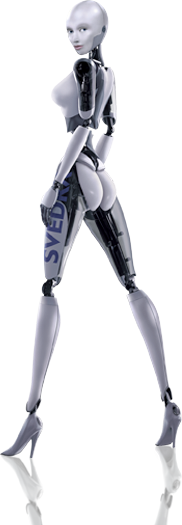
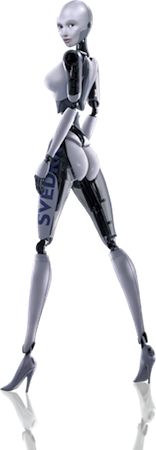
redemption resize

diff --git a/app/style.css b/app/style.css
@@ -66,7 +66,7 @@ h4.notBot { background:url(images/itsNotBot-butYouAre.jpg) no-repeat; display:bl
 #mainContent img { display:block; margin:0 auto; padding-right: 20px;}
 #mainContent .left img { margin:35px 20px 0 28px; }
 #mainContent .left img.small { margin:5px 20px 0 28px; }
-.bot { margin:0; position:absolute; top:302px; right:0; } /* Margin and top changed */
+.bot { margin:0; position:absolute; top:320px; right:0; } /* Margin and top changed */
 #mainContent a.playBtn { background:url(images/play-btn.png) no-repeat; bottom:505px; height:100px; position:absolute; right:206px; text-indent:-9999px; width:230px; } /* bottom and right changed */
 #container2 #mainContent a.playBtn {background:url(images/play-btn2.png) no-repeat; bottom:550px; height:100px; position:absolute; right:100px; text-indent:-9999px; width:230px; top: 340px} /* Added */
 #mainContent a.invite { background:url(images/invite-friends.png) no-repeat; display:block; height:28px; margin:35px auto 0; text-indent:-9999px; width:254px; }
@@ -104,7 +104,7 @@ h4.notBot { background:url(images/itsNotBot-butYouAre.jpg) no-repeat; display:bl
 /* =================================
 				FORM
 ==================================== */
-#form { margin:0 0 0 30px; padding:20px 0 0 0; width:490px; height: 389px } /* Height added */
+#form { margin:0 0 0 30px; /* padding:20px 0 0 0 */; width:490px; height: 304px; padding-top: 26px; } /* Height added */
 label { font:normal 12px Tahoma; }
 #form input, select { background:#000; border:1px solid #fff; color:#fff; display:block; font:normal 12px Tahoma; margin:0 10px 0 0; padding:5px 0 5px 3px; }
 #form .name { width:220px; }
@@ -114,11 +114,11 @@ label { font:normal 12px Tahoma; }
 #form .zip { width:104px; }
 #form div { float:left; margin:0 0 15px 0; }
 #submit { clear:both; }
-#submit input { background: url("images/SubmitBtn.png") no-repeat scroll 0 0 transparent; border:none; font:bold 16px Futura; margin:10px 0 0 0; padding:0; text-transform:uppercase; cursor: pointer; text-indent:-9999px;width:119px;height:37px;}
+#submit input { background: url("images/SubmitBtn.png") no-repeat scroll 0 0 transparent; border:none; font:bold 16px Futura; margin:10px 0 0 0; padding:0; text-transform:uppercase; cursor: pointer; text-indent:-9999px;width:98px;height:30px;}
 /* =================================
 				FOOTER
 ==================================== */
-#footer p { font:normal 10px Helvetica; margin:53px auto 0 auto; text-align:center; }
+#footer p { font:normal 10px Helvetica; margin:90px auto 0 auto; text-align:center; }
 #btm { background:url(images/footer-bg.png) repeat-y; height:12px; margin:13px 0 0 0; display: none; }
 
 /* Added by Pupung Budi Purnama to complete itsnotbot.html and itsbot.html */

diff --git a/app/redeem.php b/app/redeem.php
@@ -183,23 +183,23 @@
 <? if ($prizeSchedule['place'] == 1 && isset($friend)): ?>
         	<h4 class="congrats left">bot or not?</h4>
             <div class="clear"></div>
-            <div class="left img" style="height:202px;"><img src="prizes/FormPrizes/<?= $prizeSchedule['prize_image'] ?>_Form.png" class="small" alt="" width="190" height="190"/></div>
+            <div class="left img" style="height:200px;"><img src="prizes/FormPrizes/<?= $prizeSchedule['prize_image'] ?>_Form.png" class="small" alt="" width="190" height="190"/></div>
             <p class="text" style="font-size: 12px; margin:5px auto 0 35px;width:615px;">You won this week’s BOT Grand prize — <?= $prizeSchedule['prize_name'] ?>! And as exciting as this image of <?= $prizeSchedule['prize_name'] ?> is, it will be even more exciting once you actually have it in your hands.  Fill out the info below and if you are eligible and satisfy the <a class="inline" href="#" onclick="window.open('rules.php', 'Rules', 'toolbar=no,location=no,menubar=no,width=785,height=800,scrollbars=yes');">Official Rules</a>, we'll make it happen.</p>
             <p class="text" style="font-size: 12px; margin:5px auto 0 35px;width:615px;">And, because a friend invited you to play, your friend will win <?= $prizeSchedule['prize_name'] ?> too, because that's what friends do — they win prizes for each other (in our book anyway).</p>
 <? elseif ($prizeSchedule['place'] == 1): ?>
         	<h4 class="congrats left">bot or not?</h4>
             <div class="clear"></div>
-            <div class="left img" style="height:202px;"><img src="prizes/FormPrizes/<?= $prizeSchedule['prize_image'] ?>_Form.png" class="small" alt="" width="190" height="190"/></div>
+            <div class="left img" style="height:200px;"><img src="prizes/FormPrizes/<?= $prizeSchedule['prize_image'] ?>_Form.png" class="small" alt="" width="190" height="190"/></div>
             <p class="text" style="font-size: 14px; margin:5px auto 0 35px;width:615px;">You won this week’s BOT Grand prize — <?= $prizeSchedule['prize_name'] ?>! And as exciting as this image of <?= $prizeSchedule['prize_name'] ?> is, it will be even more exciting once you actually have it in your hands.  Fill out the info below and if you are eligible and satisfy the <a class="inline" href="#" onclick="window.open('rules.php', 'Rules', 'toolbar=no,location=no,menubar=no,width=785,height=800,scrollbars=yes');">Official Rules</a>, we'll make it happen.</p>
 <? elseif ($prizeSchedule['place'] >= 2 && $prizeSchedule['place'] <= 5): ?>
         	<h4 class="congrats left">bot or not?</h4>
             <div class="clear"></div>
-            <div class="left img" style="height:202px;"><img src="prizes/FormPrizes/<?= $prizeSchedule['prize_image'] ?>_Form.png" class="small" alt="" /></div>
+            <div class="left img" style="height:200px;"><img src="prizes/FormPrizes/<?= $prizeSchedule['prize_image'] ?>_Form.png" class="small" alt="" /></div>
             <p class="text" style="font-size: 14px; margin:5px auto 0 35px;width:615px;">It may not be THE BOT grand prize, but <?= $prizeSchedule['prize_name'] ?> is still pretty BOT. Just fill out the form below and if you are eligible and satisfy the <a href="#" onclick="window.open('rules.php', 'Rules', 'toolbar=no,location=no,menubar=no,width=785,height=800,scrollbars=yes');" class="inline">Official Rules</a>, you will receive your prize.  And be sure to come back tomorrow for another chance at the BOT prize!</p>
 <? else: ?>
 			<h4 class="congrats_not left">bot or not?</h4>
             <div class="clear"></div>
-            <div class="left img" style="height:202px;"><img src="prizes/FormPrizes/<?= $prizeSchedule['prize_image'] ?>_Form.png" class="small" alt="" /></div>
+            <div class="left img" style="height:200px;"><img src="prizes/FormPrizes/<?= $prizeSchedule['prize_image'] ?>_Form.png" class="small" alt="" /></div>
             <p class="text" style="font-size: 14px; margin:5px auto 0 35px;width:615px;">Sorry you didn't win the BOT prize this time, but you're still a winner to us. Just fill out the form below and if you are eligible and satisfy the <a href="#" onclick="window.open('rules.php', 'Rules', 'toolbar=no,location=no,menubar=no,width=785,height=800,scrollbars=yes');" class="inline">Official Rules</a>, you will receive your NOT prize.  And be sure to come back tomorrow for another chance at the BOT prize!</p>
 <? endif; ?>
 
@@ -245,7 +245,7 @@
     </div>
 <script type="text/javascript">
 //window.fbAsyncInit = function() {
-  FB.Canvas.setSize({ height: 932 });
+  FB.Canvas.setSize({ height: 873 });
 //}
 
 </script>
